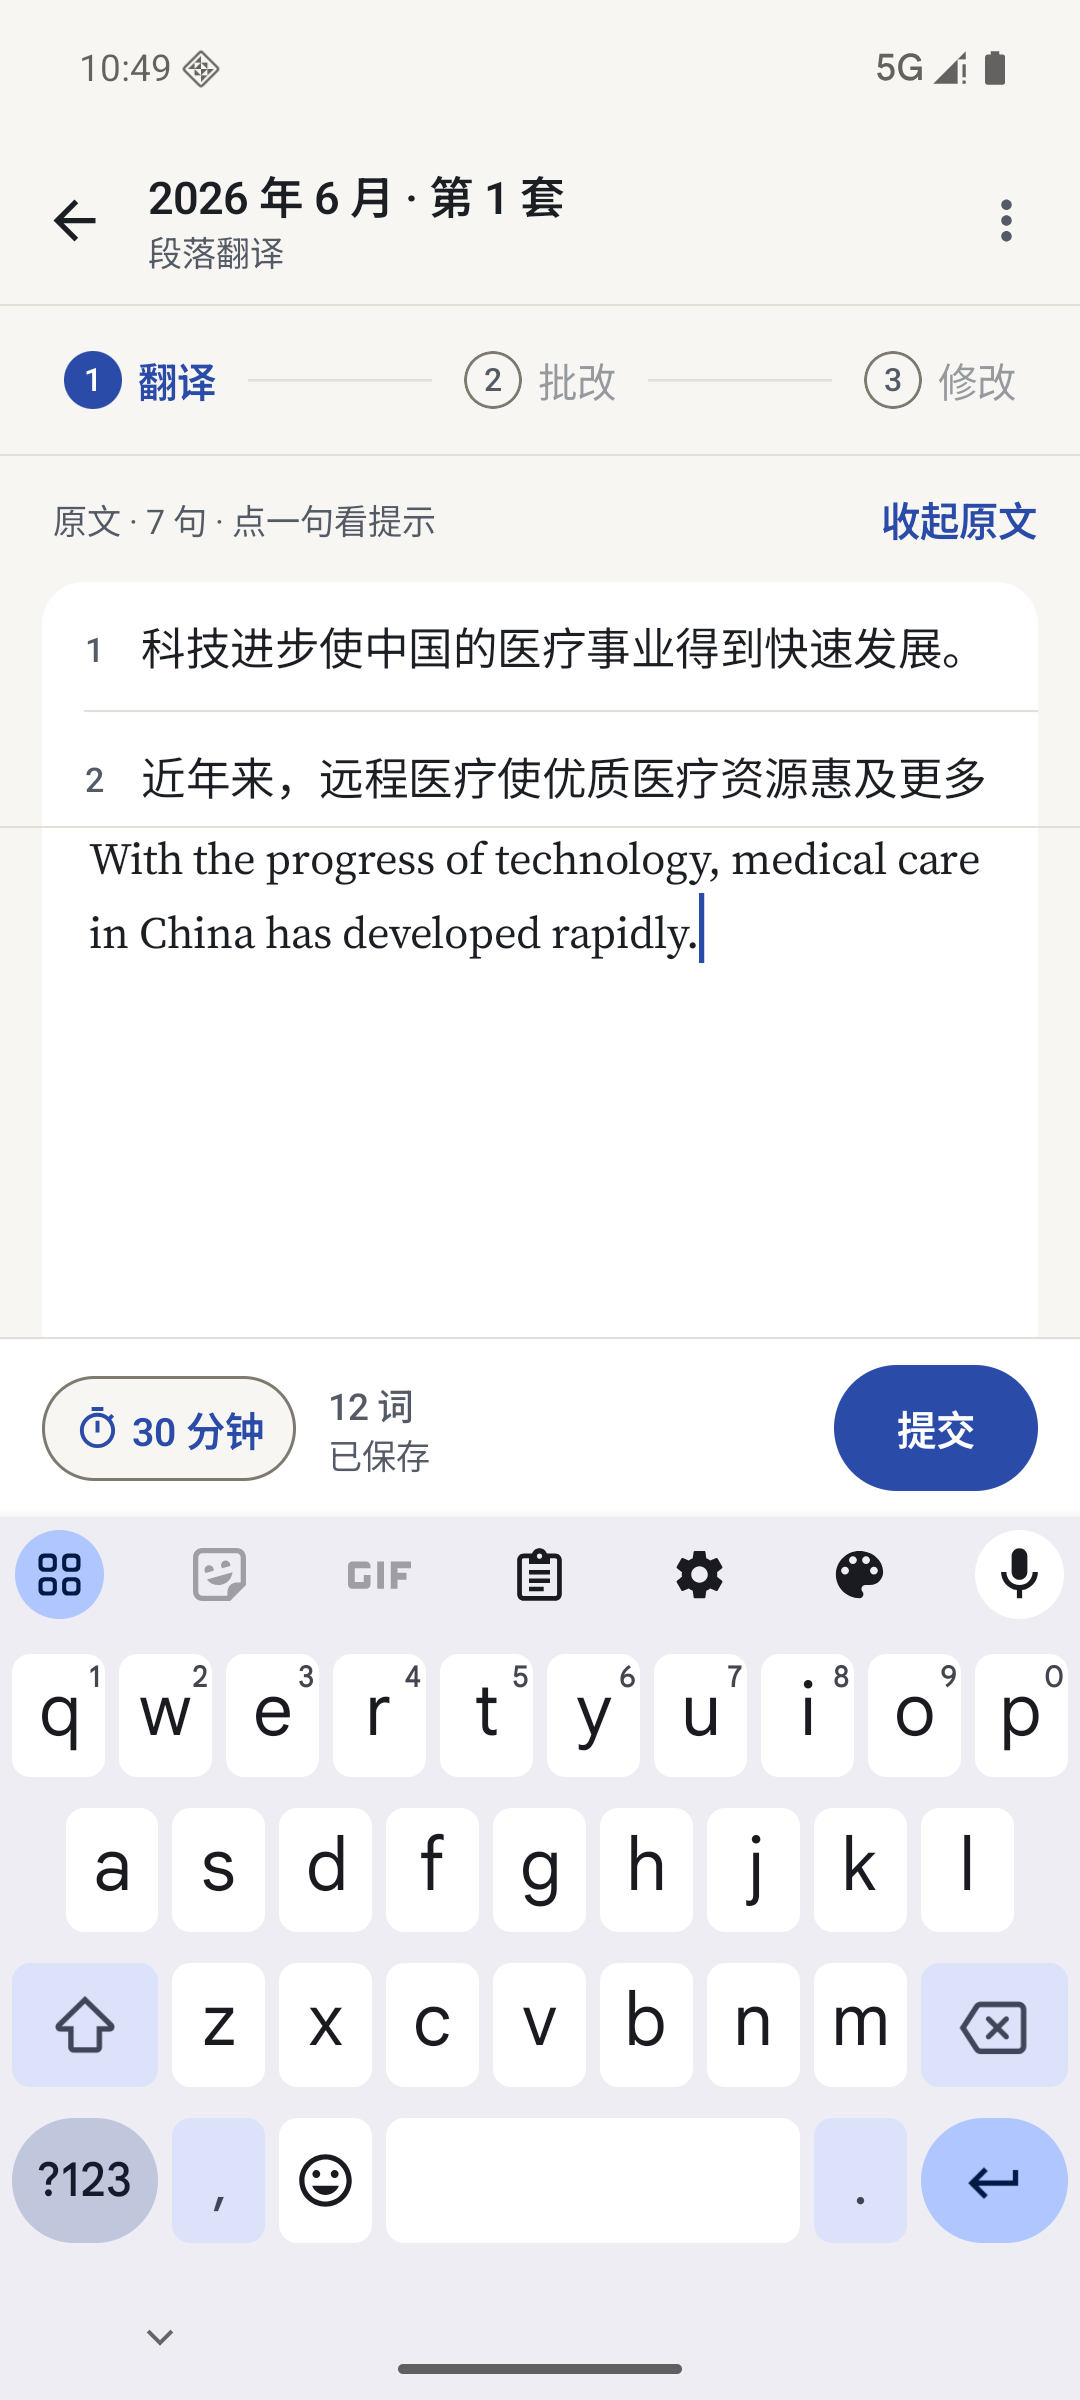
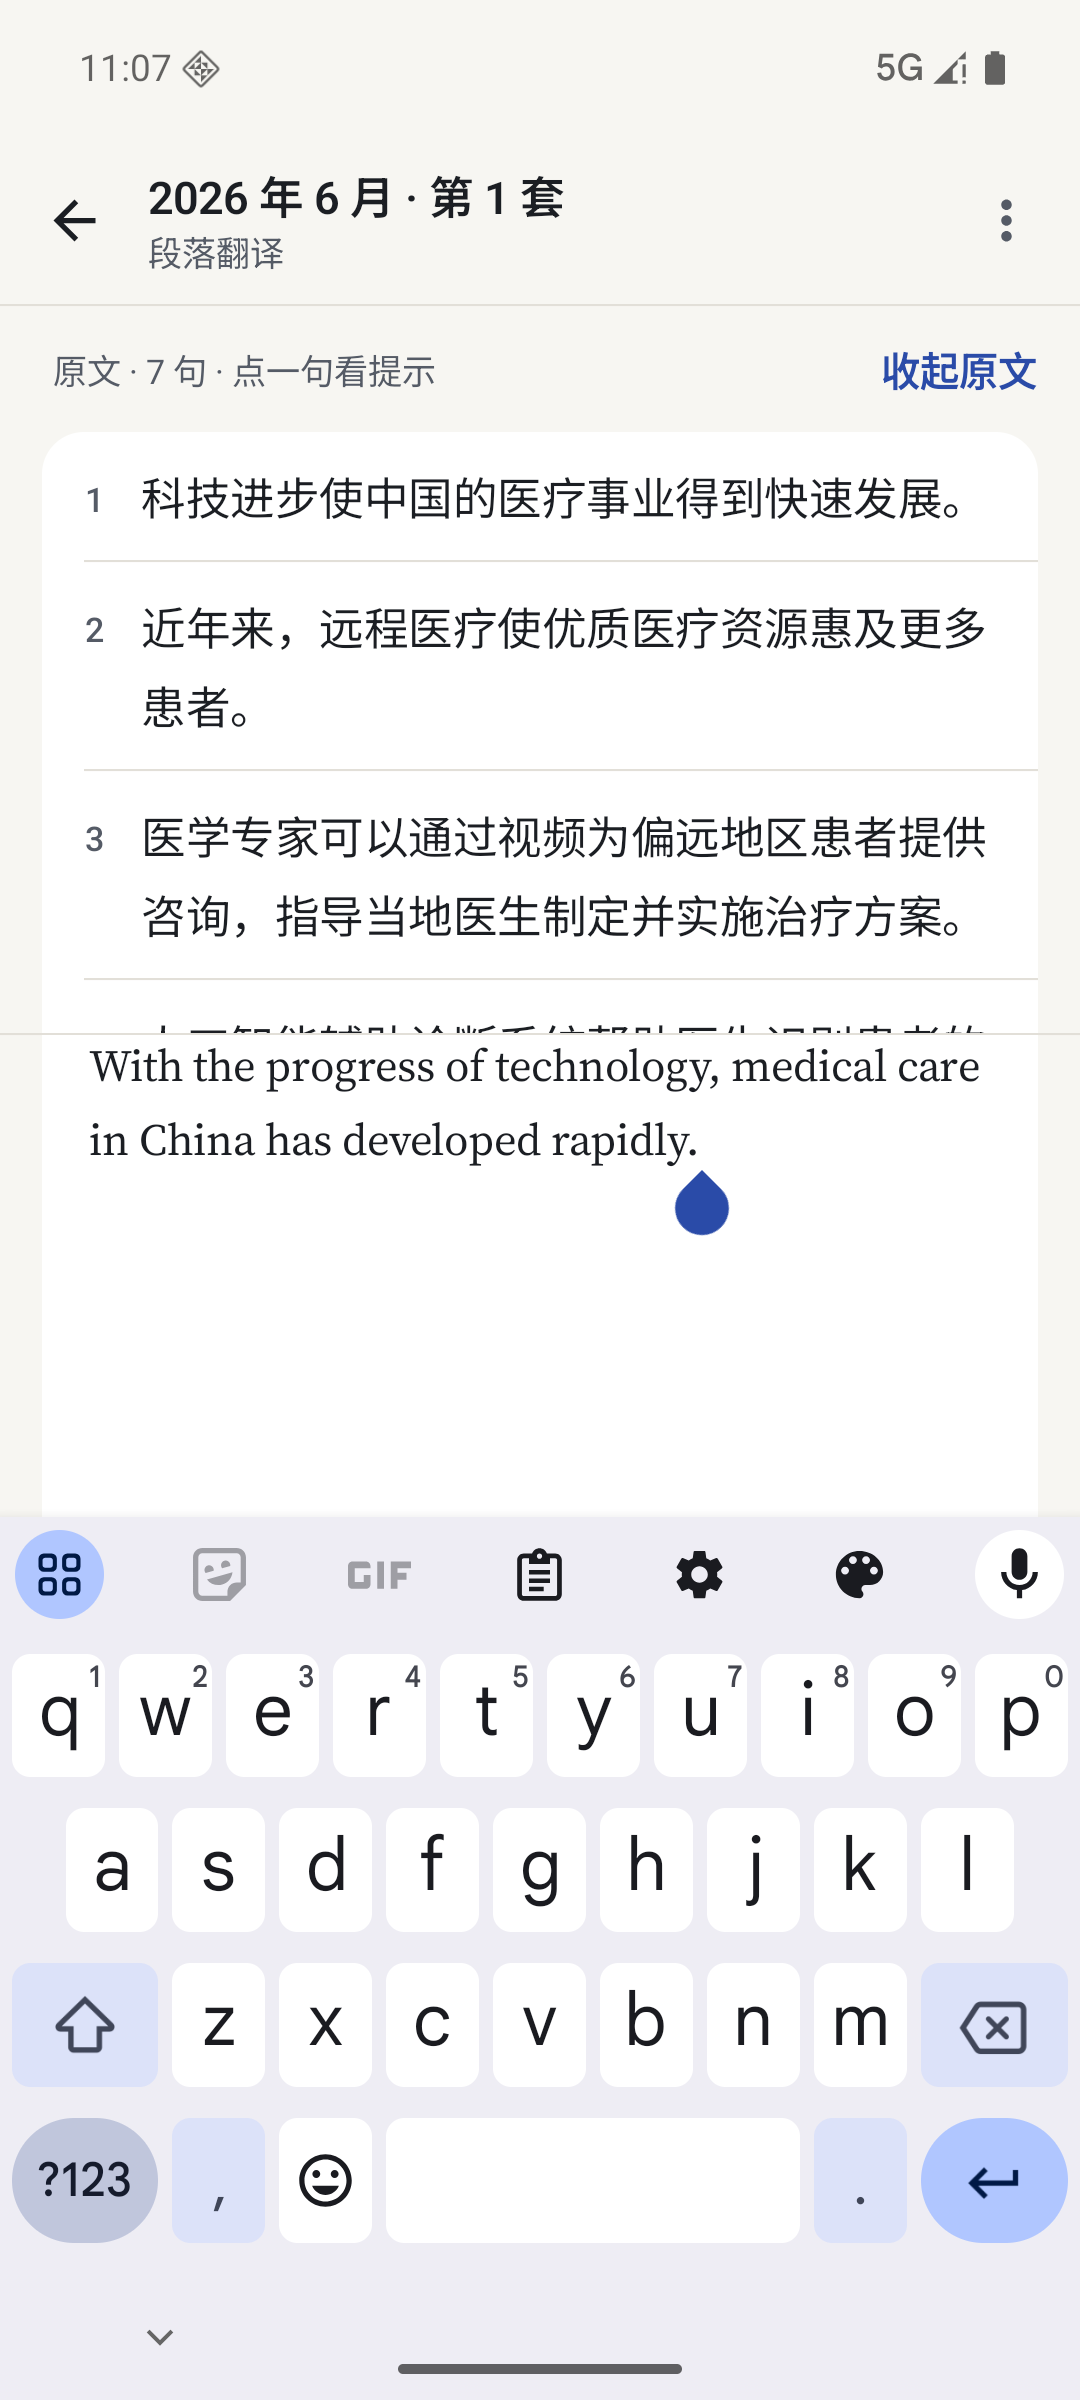
fix(translation): give the source most of the room while typing
With the keyboard up, the step bar and footer step aside and the source takes
about 60% of what is left (half when the keyboard is closed). MainActivity now
declares adjustResize: without it the window was panned on top of the layout's
own keyboard padding, pushing the title under the status bar and leaving a gap
above the keyboard.

diff --git a/app/src/main/java/com/example/cet6/ui/TranslationWorkspace.kt b/app/src/main/java/com/example/cet6/ui/TranslationWorkspace.kt
@@ -23,7 +23,7 @@ import com.example.cet6.ui.theme.SourceText
 import kotlinx.coroutines.launch
 
 /** Translation desk: numbered source sentences, the learner's version, and a sentence-aligned review. */
-@OptIn(ExperimentalMaterial3Api::class)
+@OptIn(ExperimentalMaterial3Api::class, ExperimentalLayoutApi::class)
 @Composable
 fun TranslationWorkspace(vm: StudyViewModel, onBack: () -> Unit) {
     val state = vm.coach
@@ -41,6 +41,10 @@ fun TranslationWorkspace(vm: StudyViewModel, onBack: () -> Unit) {
     var confirmSubmit by remember { mutableStateOf(false) }
     var asking by rememberSaveable(entry.id) { mutableStateOf(false) }
     var sourceOpen by rememberSaveable(entry.id) { mutableStateOf(true) }
+    val editingSource = meta == null && !submitted && entry.sourcePracticeId.isBlank()
+    val split = tab == 0 && sentences.isNotEmpty() && !editingSource
+    // While the keyboard is up the step bar and footer step aside, so the source and the draft share what is left.
+    val typing = split && WindowInsets.isImeVisible
     val versions = remember(state.history, entry) { versionsOf(state.history, entry) }
     val bands = remember(vm.reviewTurns) { latestBands(vm.reviewTurns) }
     val words = remember(entry.answer) { WritingCoach.words(entry.answer) }
@@ -72,7 +76,7 @@ fun TranslationWorkspace(vm: StudyViewModel, onBack: () -> Unit) {
         },
         bottomBar = {
             when {
-                tab == 0 -> BottomBar {
+                tab == 0 && !typing -> BottomBar {
                     if (!submitted) ExamClock(entry.id)
                     Column(Modifier.weight(1f)) {
                         WordCount(words, null, null)
@@ -88,15 +92,16 @@ fun TranslationWorkspace(vm: StudyViewModel, onBack: () -> Unit) {
             }
         }
     ) { padding ->
-        Column(Modifier.padding(padding).fillMaxSize()) {
-            DeskSteps("翻译", tab, submitted, state.working, onTab = { tab = it }, onRevise = {
-                state.revise(entry, placedReview(entry.answer, reviewTurn)?.let { applyAccepted(entry.answer, it) } ?: entry.answer)
-            })
-            Hairline()
+        Column(Modifier.padding(padding).then(if (typing) Modifier.consumeWindowInsets(padding).imePadding() else Modifier).fillMaxSize()) {
+            if (!typing) {
+                DeskSteps("翻译", tab, submitted, state.working, onTab = { tab = it }, onRevise = {
+                    state.revise(entry, placedReview(entry.answer, reviewTurn)?.let { applyAccepted(entry.answer, it) } ?: entry.answer)
+                })
+                Hairline()
+            }
             // While translating, the Chinese stays on screen above the editor instead of scrolling away with it.
-            val editingSource = meta == null && !submitted && entry.sourcePracticeId.isBlank()
-            if (tab == 0 && sentences.isNotEmpty() && !editingSource) BoxWithConstraints(Modifier.fillMaxSize()) {
-                val sourceMax = maxHeight * 0.42f
+            if (split) BoxWithConstraints(Modifier.fillMaxSize()) {
+                val sourceMax = maxHeight * if (typing) 0.6f else 0.5f
                 Column(Modifier.fillMaxSize()) {
                     SourcePane(sentences, turns, sourceOpen, { sourceOpen = !sourceOpen }, sourceMax) { sentenceSheet = it }
                     Hairline()
